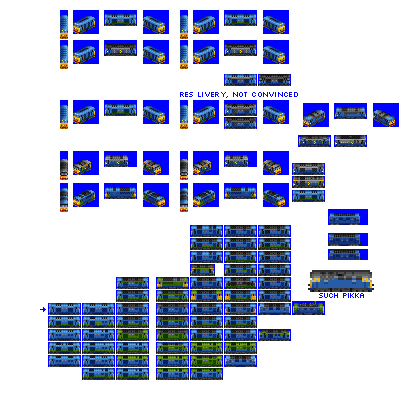
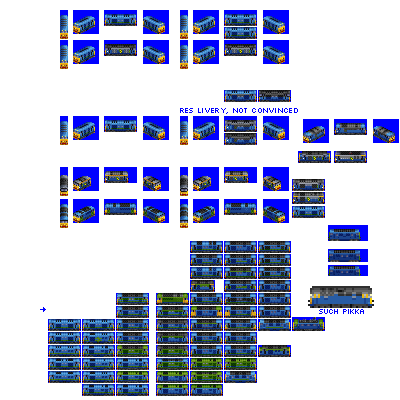
Change: various experimental livery variants (unfinished)

diff --git a/src/rosters/pony.py b/src/rosters/pony.py
@@ -297,6 +297,13 @@ def main():
                     ("COLOUR_ORANGE", "COLOUR_WHITE"),
                 ],
             },
+            "FREIGHT_BLACK": {
+                "remap_to_cc": None,
+                "docs_image_input_cc": [
+                    ("COLOUR_RED", "COLOUR_WHITE"),
+                    ("COLOUR_DARK_BLUE", "COLOUR_WHITE"),
+                ],
+            },
             "BANGER_BLUE": {
                 "remap_to_cc": None,
                 "docs_image_input_cc": [

diff --git a/src/vehicles/stoat.py b/src/vehicles/stoat.py
@@ -18,7 +18,8 @@ def main(roster_id):
         gen=2,
         intro_year_offset=3,  # introduce later than gen epoch by design
         fixed_run_cost_points=105,  # substantial cost bonus so it can make money
-        sprites_complete=True,
+        additional_liveries=["FREIGHT_BLACK"],
+        sprites_complete=False,
     )
 
     consist.add_unit(

diff --git a/src/vehicles/girt_licker.py b/src/vehicles/girt_licker.py
@@ -16,6 +16,7 @@ def main(roster_id):
         fixed_run_cost_points=250,  # cost malus, early heavy freight engines are too cheap to run relative to smaller engines
         gen=2,
         intro_year_offset=6,  # introduce a bit later
+        additional_liveries=["FREIGHT_BLACK"],
         sprites_complete=True,
     )
 
